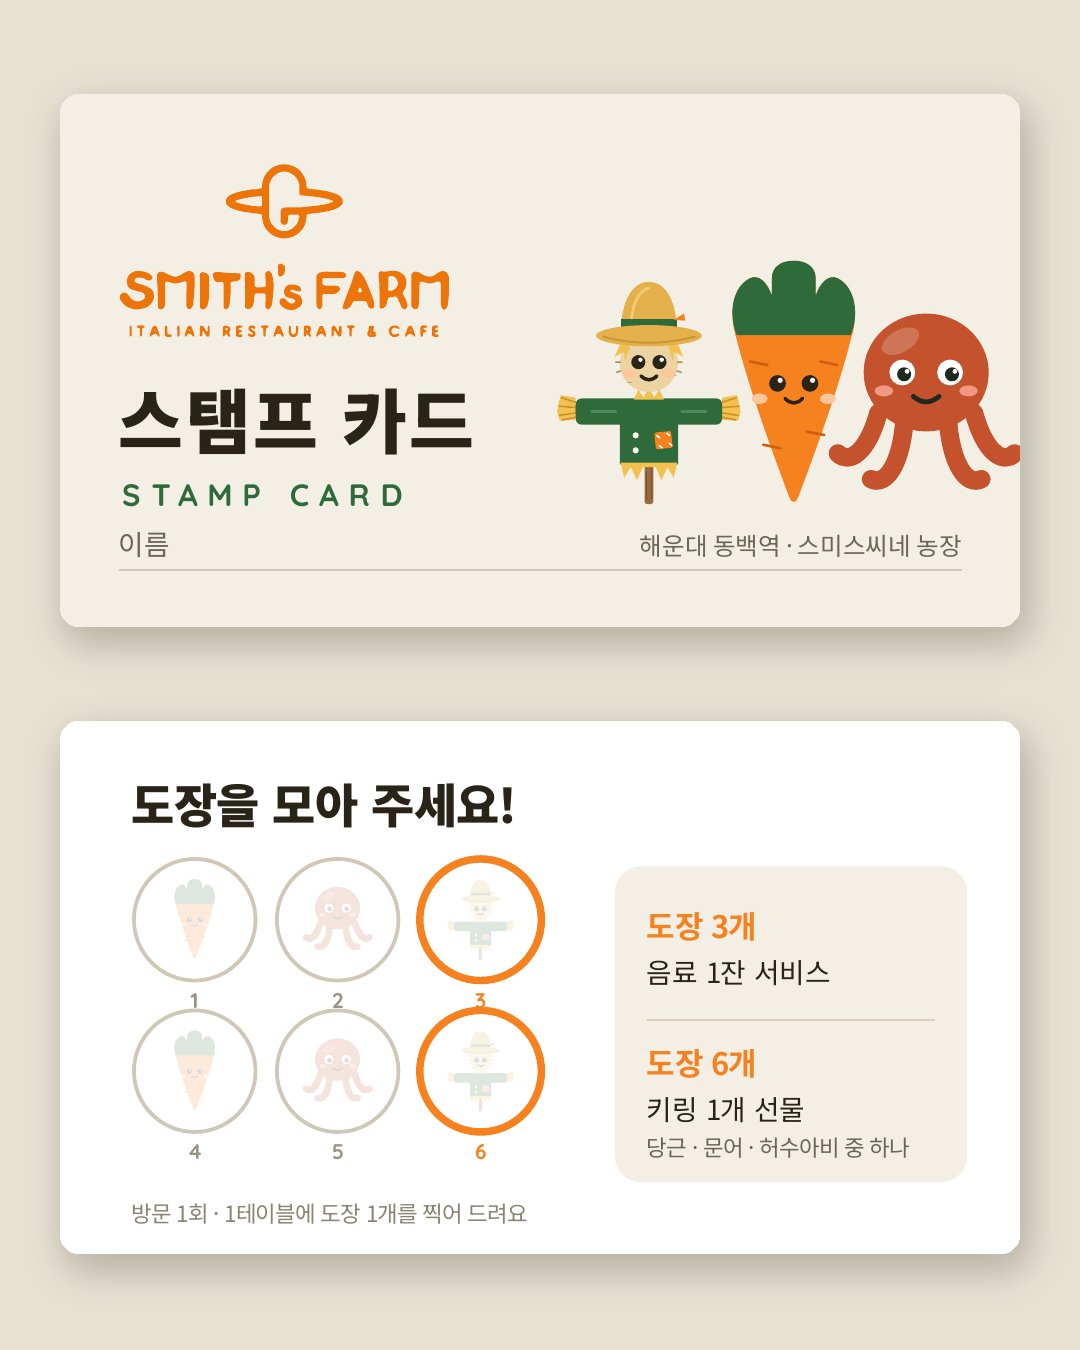
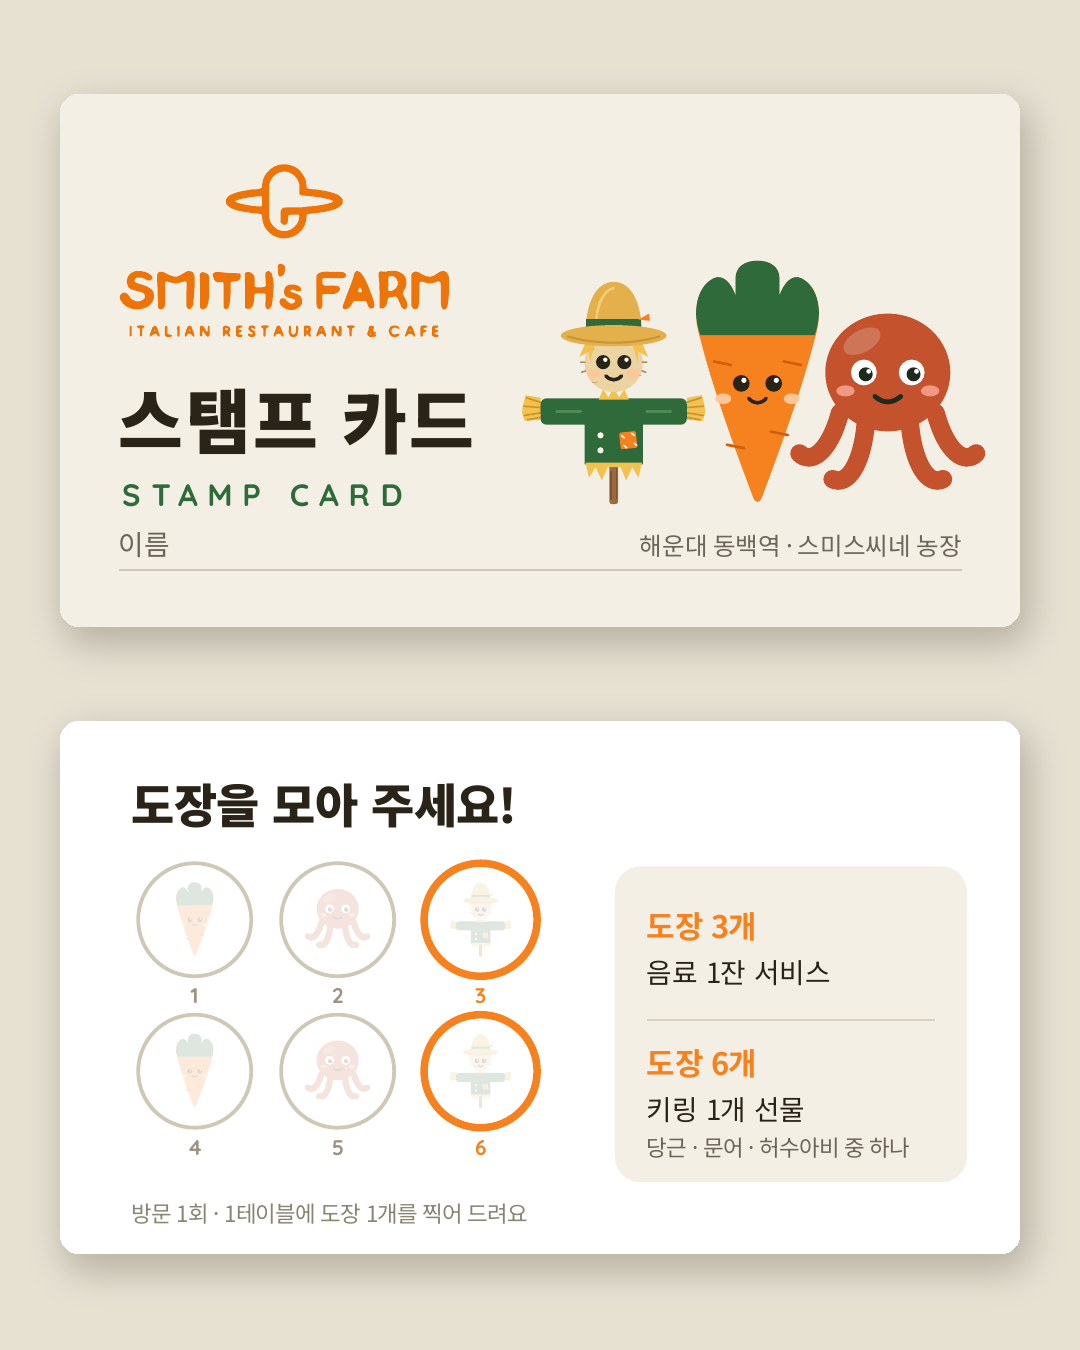
Stamp card: keep octopus inside the safe area, give stamp numbers room under the rings
Claude-Session: https://claude.ai/code/session_01VQ8MMq98AyuhceDc8oF9Qd

diff --git a/goods/service/source/stamp.py b/goods/service/source/stamp.py
@@ -5,7 +5,7 @@ front = (
     logo(7.5, 8.5, 31)
     + f'<text x="7.5" y="35.2" class="k" font-size="6.6" fill="{DARK}" letter-spacing="0.2">스탬프 카드</text>'
     + f'<text x="7.8" y="40.6" class="r" font-weight="700" font-size="2.9" fill="{GREEN}" letter-spacing="0.9">STAMP CARD</text>'
-    + char('scarecrow', 48.5, 19.5, 21) + char('carrot', 64.6, 17.6, 23) + char('octopus', 74.0, 22.5, 17.2)
+    + char('scarecrow', 45.2, 19.5, 21) + char('carrot', 61.2, 17.6, 23) + char('octopus', 70.4, 22.5, 17.2)
     + f'<line x1="7.5" y1="46.6" x2="86.5" y2="46.6" stroke="#cfc8b6" stroke-width="0.25"/>'
     + f'<text x="7.5" y="45.2" class="n" font-size="2.6" fill="#6b6658">이름</text>'
     + f'<text x="86.5" y="45.2" text-anchor="end" class="n" font-size="2.3" fill="#6b6658">해운대 동백역 · 스미스씨네 농장</text>'
@@ -15,10 +15,10 @@ slots = ''
 for i, nm in enumerate(order):
     cx, cy = 14.6 + (i % 3) * 13.4, 20.6 + (i // 3) * 14.2
     reward = i in (2, 5)
-    slots += f'<circle cx="{cx}" cy="{cy}" r="5.7" fill="#ffffff" stroke="{ORANGE if reward else "#cfc8b6"}" stroke-width="{0.7 if reward else 0.35}"/>'
-    h = 7.6 if nm != 'octopus' else 6.2
+    slots += f'<circle cx="{cx}" cy="{cy}" r="5.3" fill="#ffffff" stroke="{ORANGE if reward else "#cfc8b6"}" stroke-width="{0.7 if reward else 0.35}"/>'
+    h = 7.0 if nm != 'octopus' else 5.8
     slots += char(nm, cx - char_w(nm, h)/2, cy - h/2, h, opacity=0.16)
-    slots += f'<text x="{cx}" y="{cy+8.3}" text-anchor="middle" class="r" font-weight="700" font-size="2.0" fill="{ORANGE if reward else "#9b9483"}">{i+1}</text>'
+    slots += f'<text x="{cx}" y="{cy+7.9}" text-anchor="middle" class="r" font-weight="700" font-size="2.0" fill="{ORANGE if reward else "#9b9483"}">{i+1}</text>'
 back = (
     f'<text x="8.7" y="11.6" class="k" font-size="4.4" fill="{DARK}">도장을 모아 주세요!</text>'
     + slots
